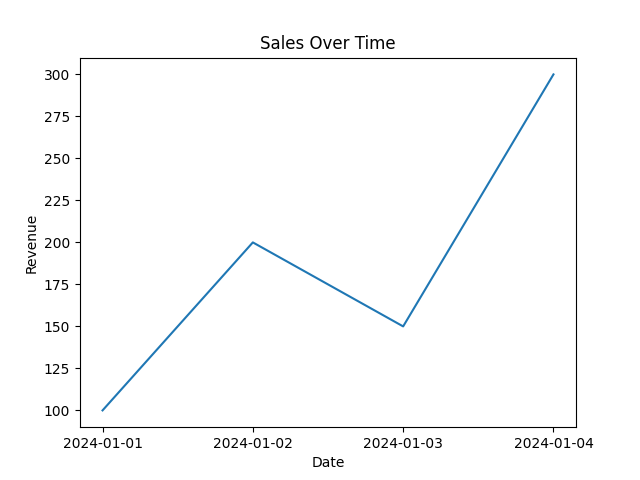
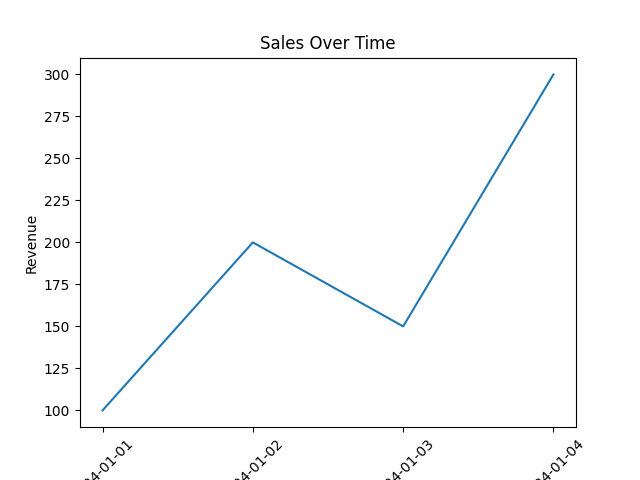
added week 3 sandbox security and week 4 chat persistence

diff --git a/app.py b/app.py
@@ -1,9 +1,40 @@
 from agent import analyze_data
+from sandbox import check_security
+import json
+chat_history = []
+
+print("StatBot Pro Started")
+print("Type your question (type exit to stop)\n")
+
 
 while True:
     question = input("Ask your question: ")
+    if question.lower() == "exit":
+        break
+    if not check_security(question):
+        print("⚠ Security Alert: Malicious request blocked!")
+        continue
+    print("Agent Thinking...")
+    print("Step 1: Understanding the question")
+    print("Step 2: Analyzing dataset")
+    print("Step 3: Generating result\n")
     answer = analyze_data(question)
-    print(answer)
+    chat_history.append({
+        "question":question,
+        "answer":answer
+    })
+    with open("chat_history.json", "w") as f:
+        json.dump(chat_history, f, indent=4)
+    print("Answer",answer)
+    
+
+
+
+
+
+                                                                                                                                                                                                                                                                                                                                                                                                                                                                                                                                                                                                                                                                                                                                                                                                                                                                                                                                                                                                                                                                                                                                                                                                                                                                                                                                                                                                                                                                                                                
+
+
 
 
 

diff --git a/agent.py b/agent.py
@@ -1,25 +1,35 @@
 import pandas as pd
 import matplotlib.pyplot as plt
 
+# Load dataset
+df = pd.read_csv("sales.csv")
+
 def analyze_data(question):
 
-    df = pd.read_csv("sales.csv")
+    question = question.lower()
 
-    if "total revenue" in question.lower():
+    # Count rows
+    if "how many rows" in question:
+        return len(df)
 
-        total = df["revenue"].sum()
-        return f"Total revenue is {total}"
+    # Mean revenue
+    elif "mean revenue" in question or "average revenue" in question:
+        return df["revenue"].mean()
 
-    elif "graph" in question.lower():
+    # Plot graph
+    elif "plot sales" in question or "sales over time" in question:
 
+        plt.figure()
         plt.plot(df["date"], df["revenue"])
-        plt.title("Revenue Over Time")
         plt.xticks(rotation=45)
 
-        plt.savefig("graph.png")
-        plt.close()
+        plt.title("Sales Over Time")
+        plt.xlabel("Date")
+        plt.ylabel("Revenue")
 
-        return "Graph saved as graph.png"
+        plt.savefig("sales_chart.png")
+
+        return "Graph generated and saved as sales_chart.png"
 
     else:
         return "I don't understand the question"
